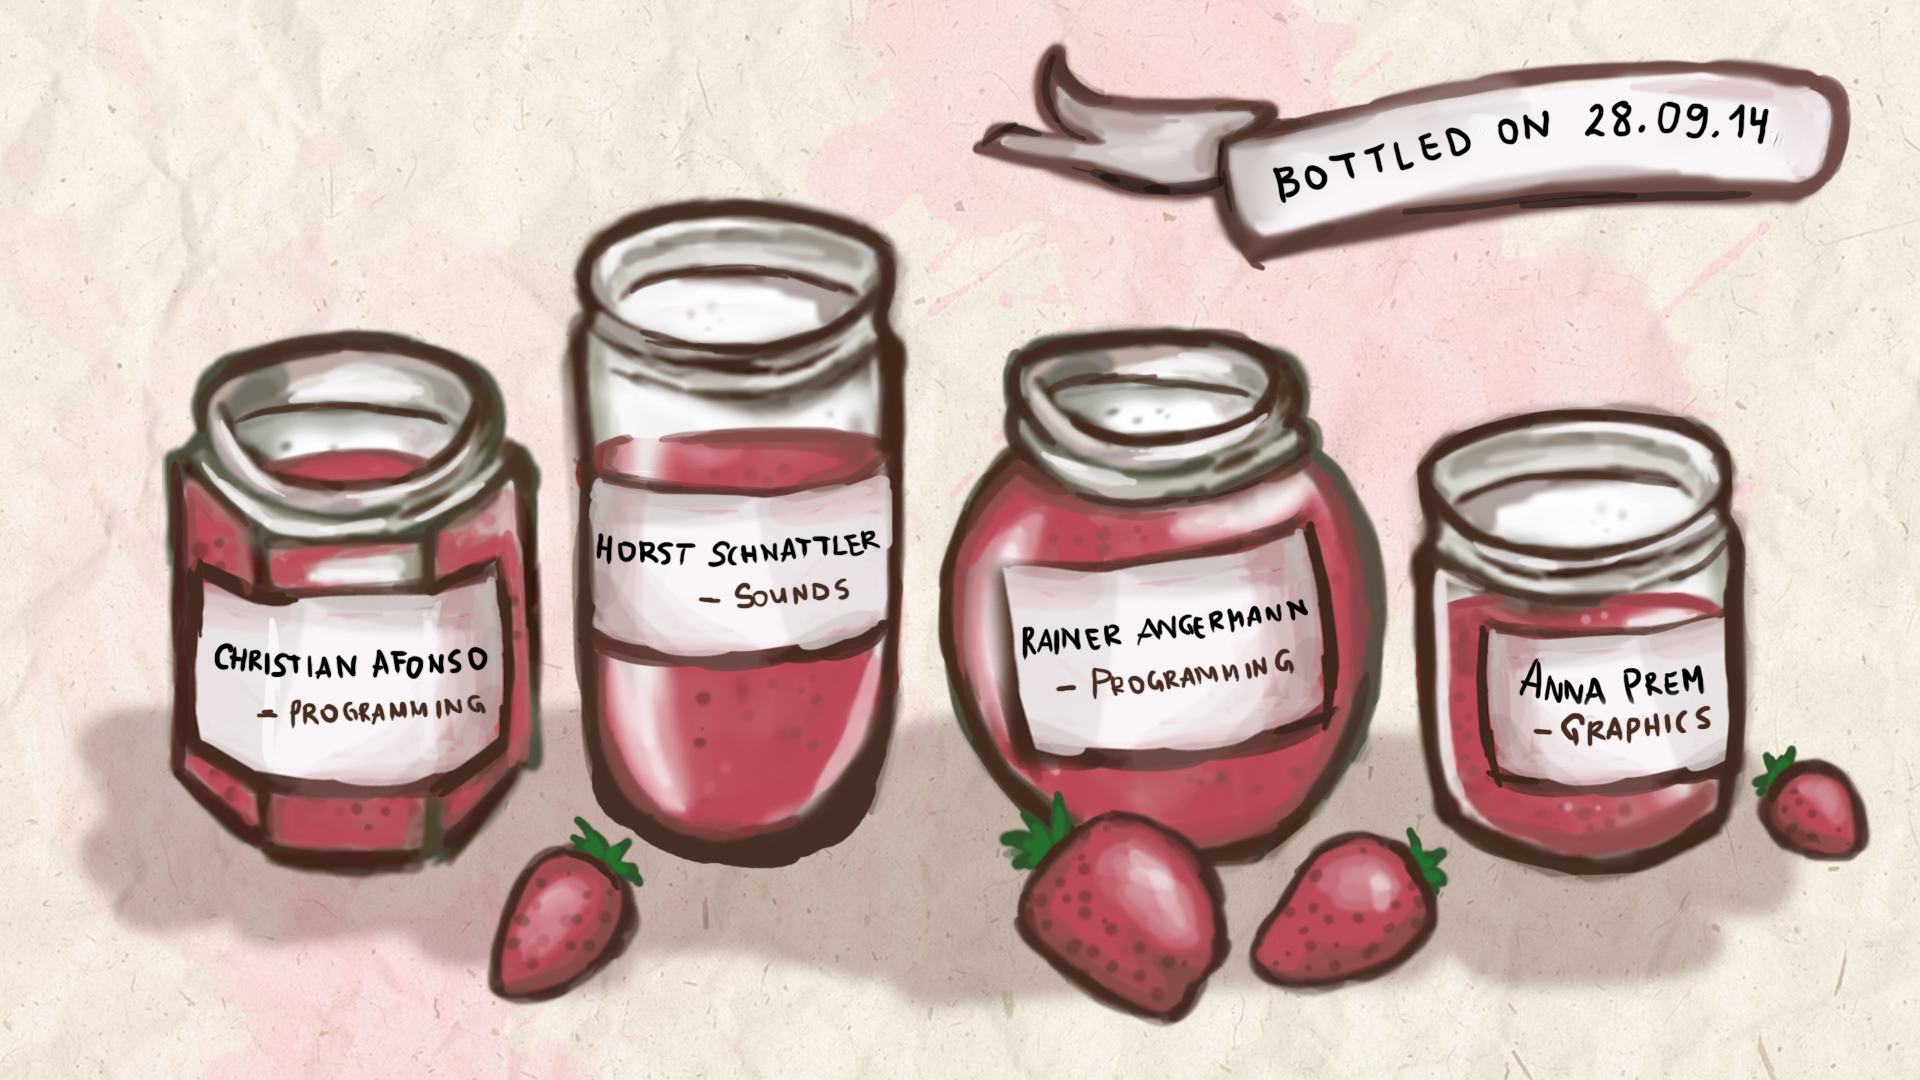
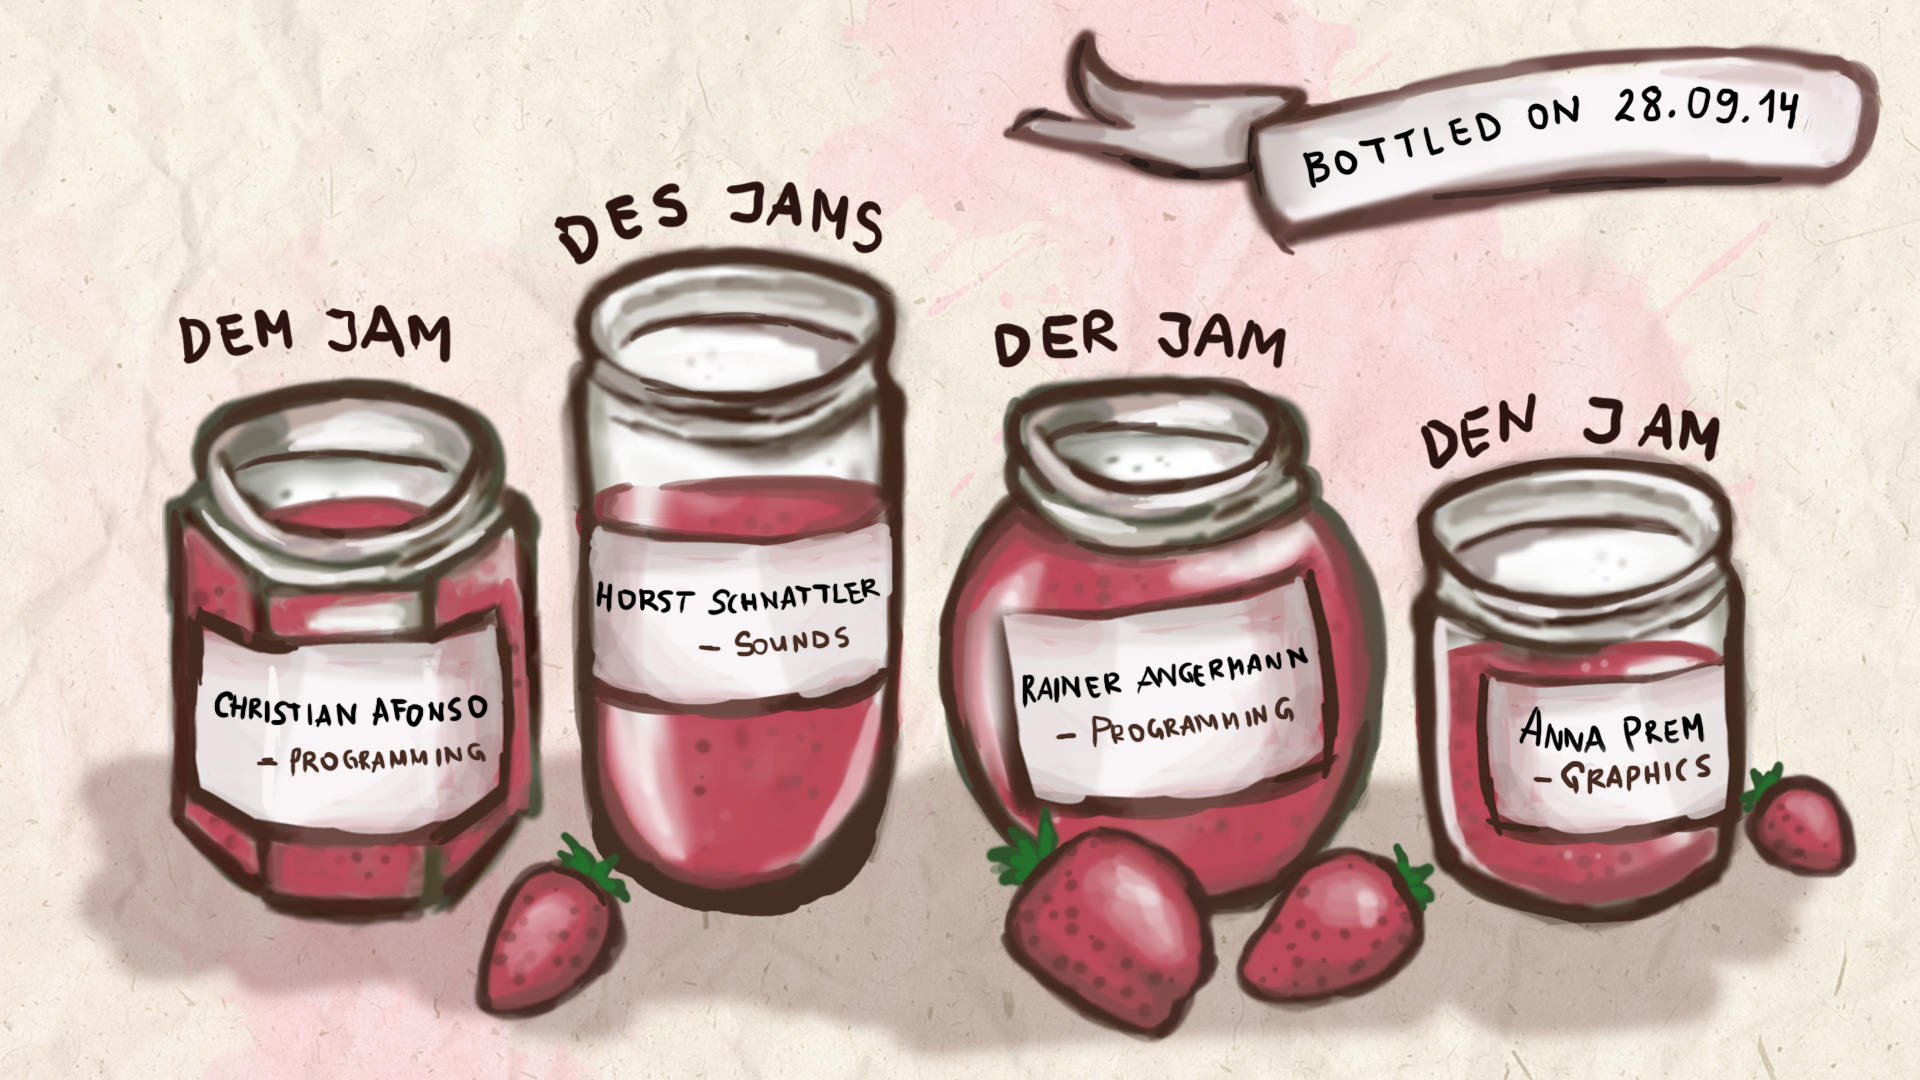
added breakfast items fixed jam sound

diff --git a/src/Assets/scripts/game/player/TrailRendererWith2DCollider.cs b/src/Assets/scripts/game/player/TrailRendererWith2DCollider.cs
@@ -70,7 +70,7 @@ public class TrailRendererWith2DCollider : MonoBehaviour {
   //************
 
   private void Awake() {
-    CreateTrail();
+    
   }
 
   public void DestroyTrail() {
